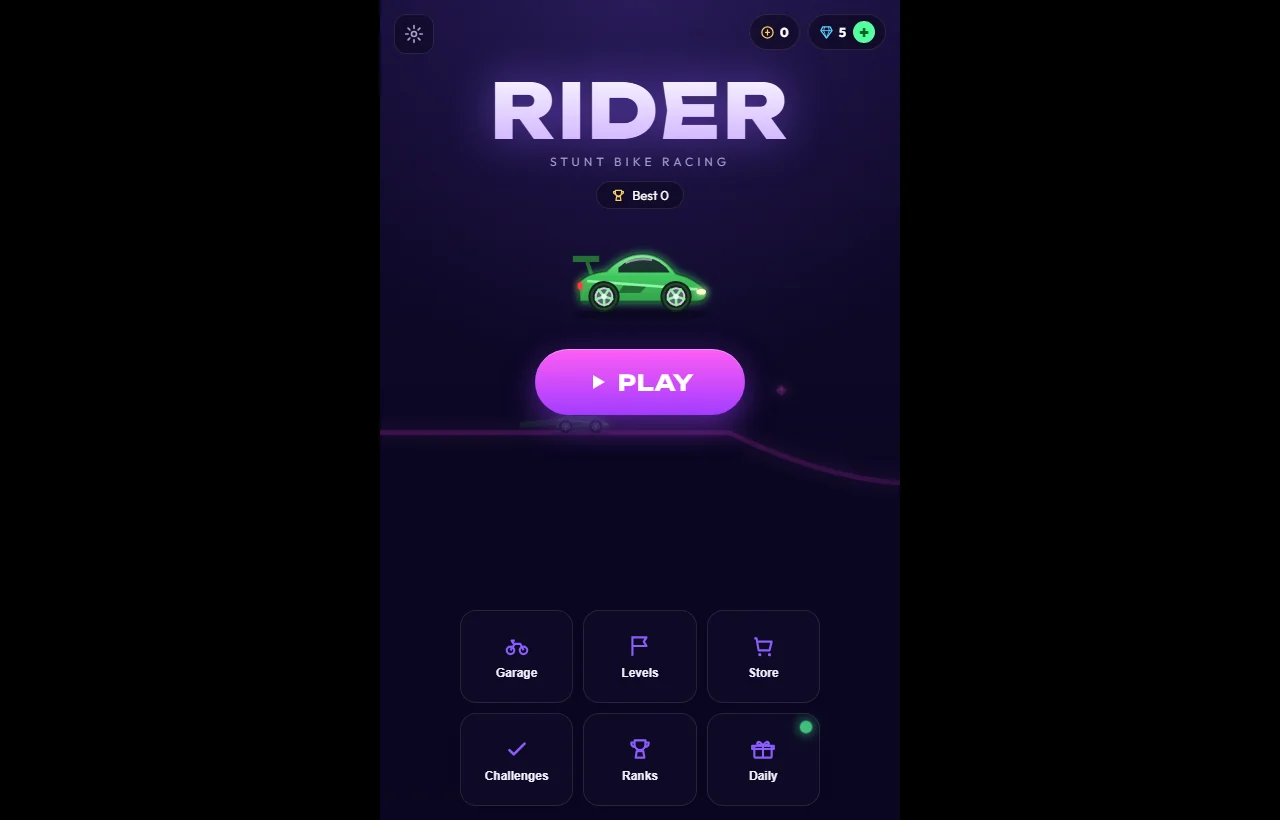
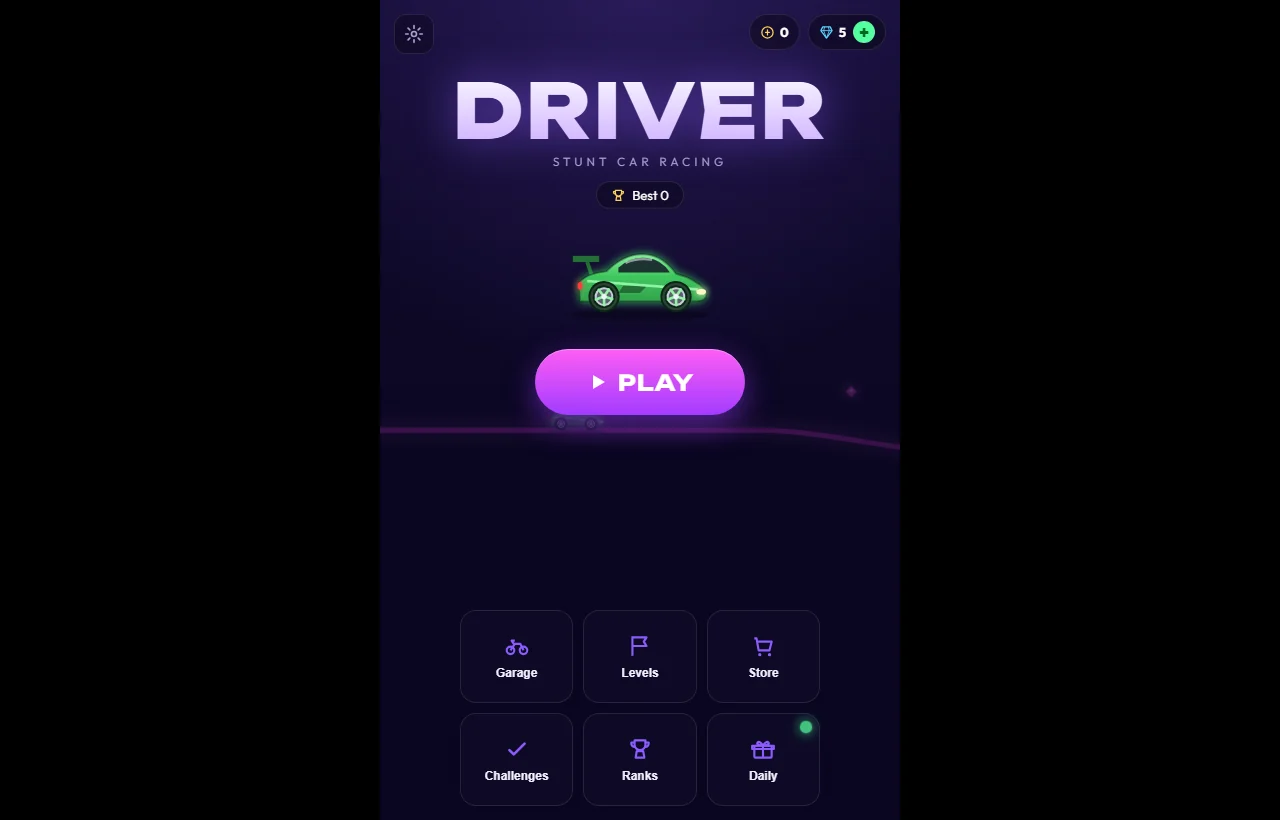
Rename project cards: RIDER -> DRIVER, ARISE -> LEVEL UP

diff --git a/projekte.html b/projekte.html
@@ -122,24 +122,24 @@
         </a>
 
         <a class="pcard" href="https://notdom1n1c.github.io/rider/" target="_blank" rel="noopener"
-           aria-label="RIDER live öffnen (neuer Tab)">
-          <div class="pcard__shot" style="background-image:url('assets/rider.webp')"></div>
+           aria-label="DRIVER live öffnen (neuer Tab)">
+          <div class="pcard__shot" style="background-image:url('assets/rider.webp?v=2')"></div>
           <span class="pcard__go" aria-hidden="true">&#8599;</span>
           <div class="pcard__body">
             <span class="pcard__nr">B02</span>
-            <h3 class="pcard__name">RIDER</h3>
+            <h3 class="pcard__name">DRIVER</h3>
             <p class="pcard__desc" data-i18n="p.rider">Stunt-Racing im Browser: Rampen, Loopings und Flips, 8 Autodesigns, 32 Levels und Challenges.</p>
             <span class="pcard__tags"><span class="pcard__live">Live</span><span>Canvas</span><span>Physik</span><span>Game</span></span>
           </div>
         </a>
 
         <a class="pcard" href="https://notdom1n1c.github.io/arise/" target="_blank" rel="noopener"
-           aria-label="ARISE live öffnen (neuer Tab)">
+           aria-label="LEVEL UP live öffnen (neuer Tab)">
           <div class="pcard__shot" style="background-image:url('assets/arise.png')"></div>
           <span class="pcard__go" aria-hidden="true">&#8599;</span>
           <div class="pcard__body">
             <span class="pcard__nr">B03</span>
-            <h3 class="pcard__name">ARISE</h3>
+            <h3 class="pcard__name">LEVEL UP</h3>
             <p class="pcard__desc" data-i18n="p.arise">Gamifizierte Fitness-App im Solo-Leveling-Stil mit XP, Rängen und Quests.</p>
             <span class="pcard__tags"><span class="pcard__live">Live</span><span>Web-App</span><span>Gamification</span><span>JavaScript</span></span>
           </div>
